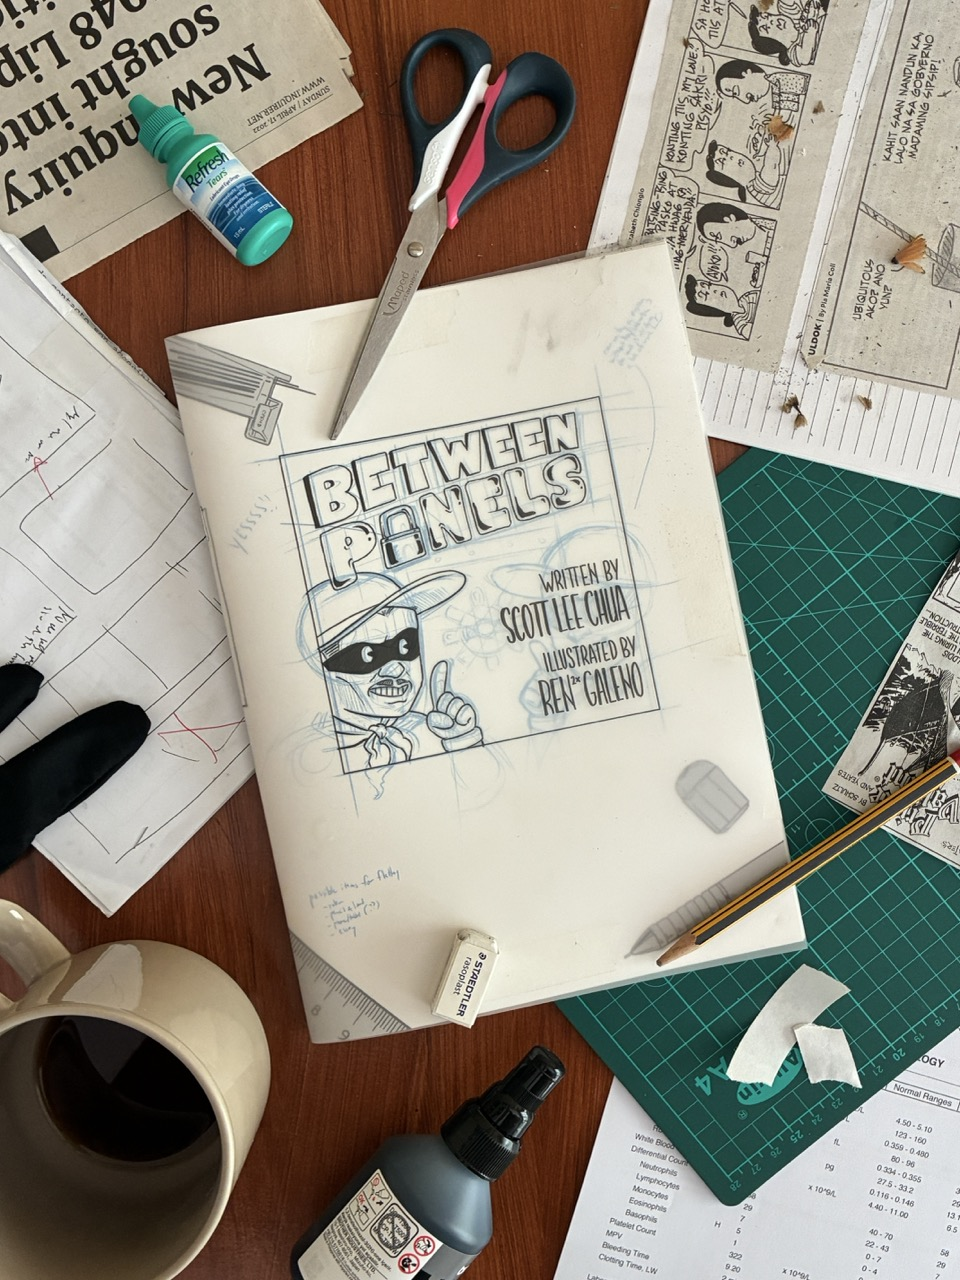
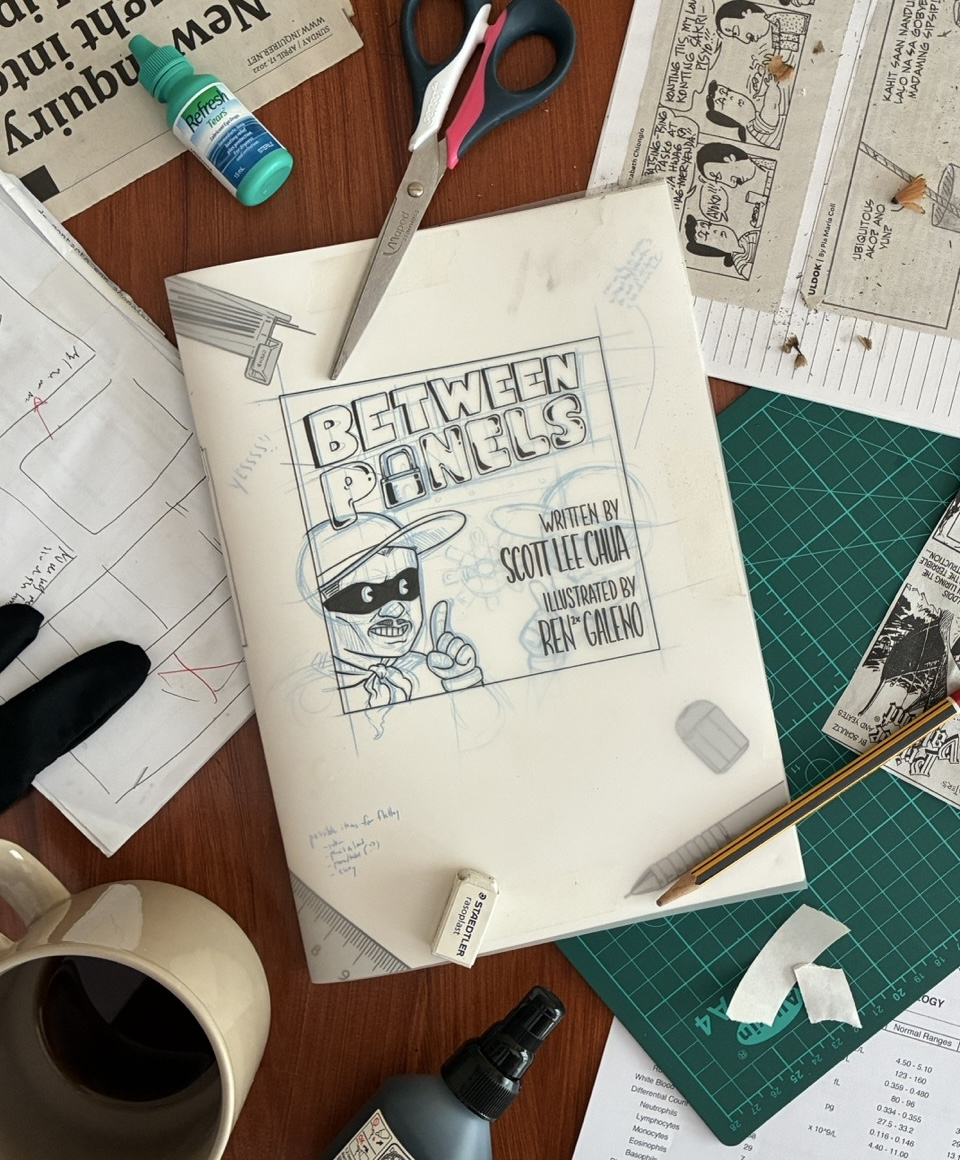
Update between panels site

diff --git a/_comics/between-panels.md b/_comics/between-panels.md
@@ -2,15 +2,15 @@
 layout: page-nodesc
 title: Between Panels
 description: Making comics in, on, and through history
-subtitle: "MĀNOA: A Pacific Journal of International Writing"
-og_image: between-panels-cover.jpg
+subtitle: "a graphic meta-memoir"
+og_image: between-panels-cover.jpeg
 image_alt: Sketched cover for Between Panels by Scott Lee Chua and Ren2x Galeno, showing two grinning thieves shushing each other outside a bank vault.
 add_period: true
 importance: 1
 ---
 
 <div style="text-align: center;padding-bottom:1.5rem;">
-<h5><a href="https://muse.jhu.edu/issue/54064">buy the digital issue</a></h5>
+<h5><a href="https://docs.google.com/forms/d/e/1FAIpQLSfdh-hz4SnNdhNShDH77gRb7ObB80uHFpT_yNKVqyWzm2pfJw/viewform">buy the print edition</a></h5>
 </div>
 
 <div class="row">
@@ -27,12 +27,25 @@ The first two pages.
 
 *Between Panels* is a short comic about making comics in, on, and through history --- in collaboration with the inimitable [Renren Galeno](https://rengaleno.pb.online/).
 
-It was published in the Philippine spotlight issue of the [Mānoa Journal](https://manoajournal.org/) (guest edited by [Laurel Flores Fantauzzo](https://laurelfloresfantauzzo.com)) and graciously nominated for the [2025 Pushcart Prize](https://www.instagram.com/manoa_journal/p/DDXzhk4tEXN).
+It was first published in the Philippine spotlight issue of the [Mānoa Journal](https://manoajournal.org/) (guest edited by [Laurel Flores Fantauzzo](https://laurelfloresfantauzzo.com)) and graciously nominated for the [2025 Pushcart Prize](https://www.instagram.com/manoa_journal/p/DDXzhk4tEXN).
 
-*Between Panels* was part of the [2026 Nib & Ink Festival Marketplace](https://nif-shop.cartoonist.coop), a digital comics fair organized by [Cartoonists United](https://cartoonist.coop).
+*Between Panels* was selected for the 2026 Nib & Ink Festival Marketplace, an online comics fair organized by [Cartoonists United](https://cartoonist.coop).
 
-<div style="text-align: center; width: 100%; margin-left: auto; margin-right: auto; margin-top: 16px;">
+#### Praise for *Between Panels*
+
+- *"A celebration of the stories that make up our patchwork history, where the whole is always bigger than the sum of its parts."* -- Lawrence Ypil, author of *[The Experiment of the Tropics](https://lawrenceypil.com/publications#the-experiment-of-the-tropics-2019---order-here)*
+- *"A very thoughtful exploration... Books like this remind you that comics are a medium for any kind of storytelling."* -- Rocky Sunico, *[I Geek Therefore I Am](https://www.rockysunico.com/)*
+
+#### The numbered edition
+
+In July 2026, Renren and I launched a special print edition of *Between Panels*.
+
+It's a numbered edition of 150, printed on archival-quality 140gsm Tintoretto Gesso, with exclusive back matter and a special translucent overlay on the cover.
+
+Watch us [flip through the pages](https://www.instagram.com/p/Dac3SdICUIg/?img_index=2), or [buy your copy today](https://docs.google.com/forms/d/e/1FAIpQLSfdh-hz4SnNdhNShDH77gRb7ObB80uHFpT_yNKVqyWzm2pfJw/viewform).
+
+<div style="text-align: center; width: 80%; margin-left: auto; margin-right: auto; margin-top: 16px;">
 <figure>
-        <img class="img-fluid rounded z-depth-1" src="/assets/img/between-panels-cover.jpg" alt="Sketched cover showing two grinning thieves shushing each other outside a bank vault. The stylized title Between Panels appears above. Below reads, written by Scott Lee Chua, illustrated by Ren2x Galeno. Construction guidelines are visible across the page."/>
+        <img class="img-fluid rounded z-depth-1" src="/assets/img/between-panels-flatlay.jpeg" alt="A comic book entitled 'Between Panels', written by Scott Lee Chua and illustrated by Renren Galeno, rests on a wooden desk surrounded by art supplies. The cover features a cartoon character of a grinning thief with his finger raised to his lips. Around the book are scissors, a pencil and eraser, eye drops, a black ink bottle, a coffee mug, a cutting mat, loose newspaper cuttings, and a printed medical lab results sheet. The overall scene evokes a comic book artist's busy workspace."/>
 </figure>
 </div>
